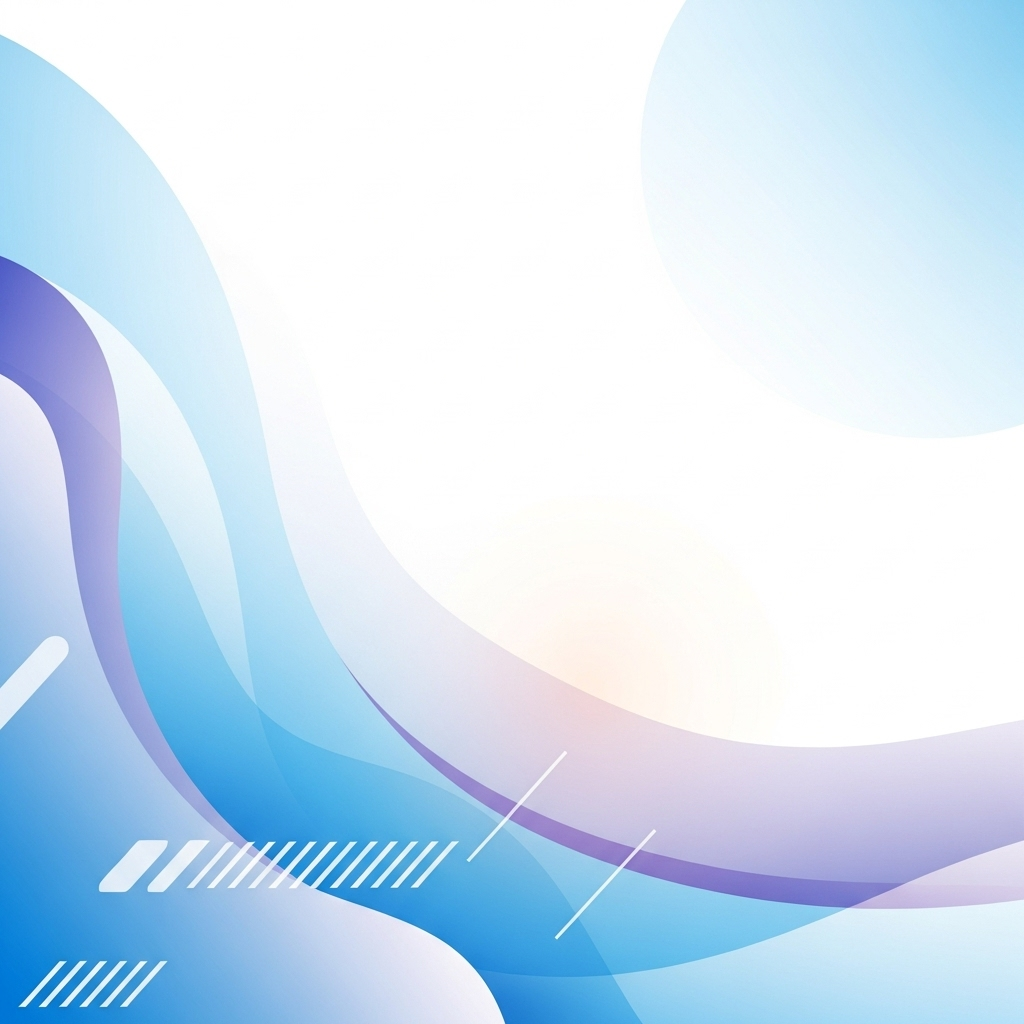
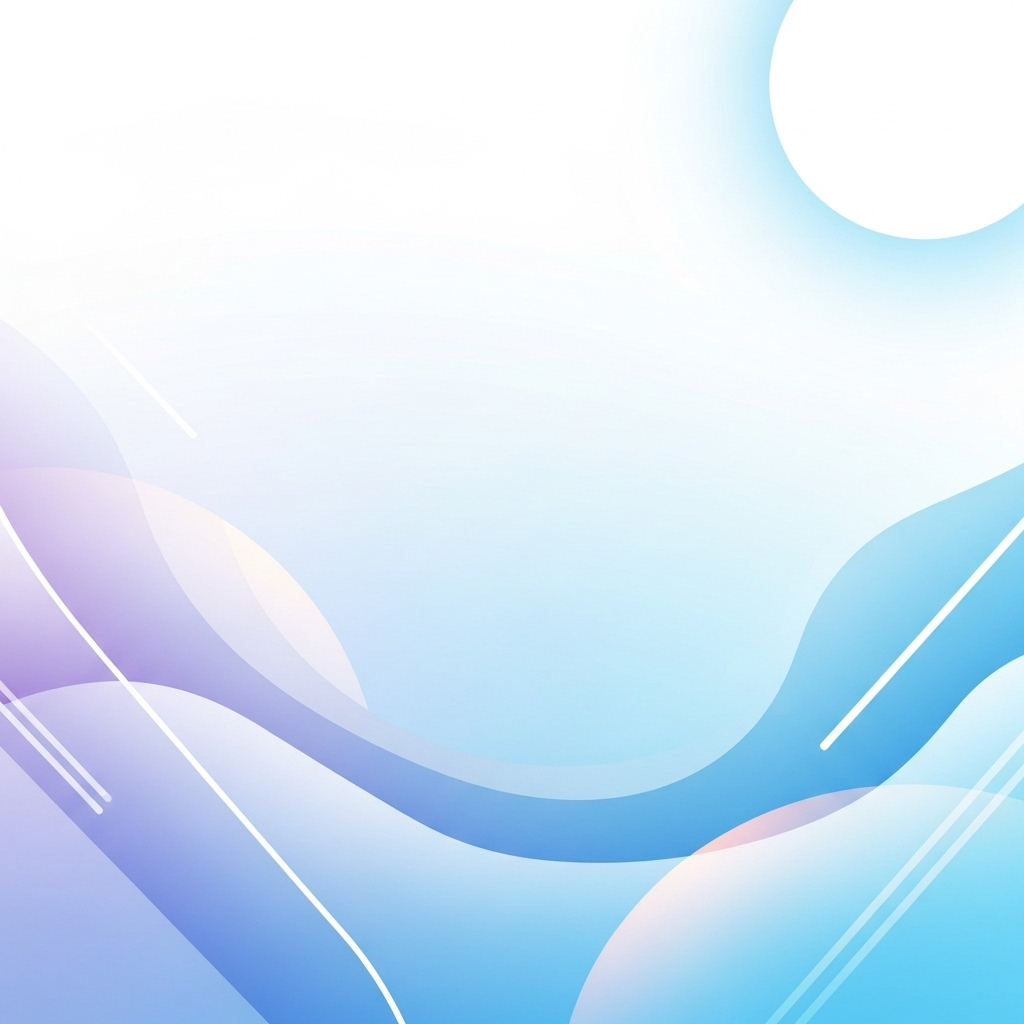
Fixed logout issue associated with settings page

diff --git a/backend/src/controllers/auth.controller.js b/backend/src/controllers/auth.controller.js
@@ -179,11 +179,48 @@ export const googleCallback = async (req, res) => {
 //  Logout
 // ===========================
 export const logout = (req, res) => {
-    // Clear both access and refresh cookies
-    res.clearCookie("token", { path: "/" });
-    res.clearCookie("refreshToken", { path: "/" });
-    res.clearCookie("csrfToken", { path: "/" });
-    res.json({ message: "Logged out" });
+    // Log incoming cookies for debug purposes (helps diagnose why clearCookie
+    // sometimes doesn't remove cookies when path/sameSite/domain mismatches occur).
+    try {
+        console.debug('logout: incoming cookies ->', Object.keys(req.cookies || {}));
+    } catch (e) {
+        console.warn('logout: failed to read req.cookies', e);
+    }
+
+    // Clear both access and refresh cookies using the same options that were
+    // applied when the cookies were originally set (httpOnly, secure, sameSite).
+    const isProd = process.env.NODE_ENV === "production";
+
+    // Use makeCookieOpts to produce matching options; set maxAge to 0 when clearing
+    res.clearCookie("token", makeCookieOpts(isProd, 0));
+    res.clearCookie("refreshToken", makeCookieOpts(isProd, 0));
+
+    // csrfToken was set as a non-httpOnly cookie earlier — clear with matching options
+    res.clearCookie("csrfToken", {
+        httpOnly: false,
+        secure: isProd,
+        sameSite: isProd ? "none" : "lax",
+        maxAge: 0,
+        path: "/",
+    });
+
+    // As an extra fallback, also explicitly set expired cookies (some browsers
+    // respond better to an explicit past expiration). Use the same options.
+    try {
+        res.cookie("token", "", { ...makeCookieOpts(isProd, 0), expires: new Date(0) });
+        res.cookie("refreshToken", "", { ...makeCookieOpts(isProd, 0), expires: new Date(0) });
+        res.cookie("csrfToken", "", { httpOnly: false, secure: isProd, sameSite: isProd ? "none" : "lax", expires: new Date(0), path: "/" });
+    } catch (e) {
+        // best-effort — don't crash logout if this fails
+        console.debug('logout: explicit expire cookies failed', e?.message || e);
+    }
+
+    // Return a debug hint in non-production to help client-side diagnostics
+    if (process.env.NODE_ENV !== 'production') {
+        return res.json({ message: "Logged out", cookiesReceived: Object.keys(req.cookies || {}) });
+    }
+
+    return res.json({ message: "Logged out" });
 };
 
 // ===========================
@@ -418,20 +455,20 @@ export const login = async (req, res) => {
         const refreshToken = generateRefreshToken(user);
         const isProd = process.env.NODE_ENV === "production";
 
-        // Set access and refresh cookies
-        res.cookie("token", token, makeCookieOpts(isProd, parseInt(process.env.JWT_EXPIRES_MS || String(15 * 60 * 1000))));
-        res.cookie("refreshToken", refreshToken, makeCookieOpts(isProd, parseInt(process.env.JWT_REFRESH_EXPIRES_MS || String(7 * 24 * 60 * 60 * 1000))));
+    // Set access and refresh cookies
+    const tokenOpts = makeCookieOpts(isProd, parseInt(process.env.JWT_EXPIRES_MS || String(15 * 60 * 1000)));
+    const refreshOpts = makeCookieOpts(isProd, parseInt(process.env.JWT_REFRESH_EXPIRES_MS || String(7 * 24 * 60 * 60 * 1000)));
+    console.debug('auth: setting token cookie opts ->', tokenOpts);
+    console.debug('auth: setting refreshToken cookie opts ->', refreshOpts);
+    res.cookie("token", token, tokenOpts);
+    res.cookie("refreshToken", refreshToken, refreshOpts);
 
 
         // Issue a non-httpOnly CSRF token for double-submit protection
         const csrfToken = crypto.randomBytes(24).toString("hex");
-        res.cookie("csrfToken", csrfToken, {
-            httpOnly: false,
-            secure: isProd,
-            sameSite: isProd ? "none" : "lax",
-            maxAge: 7 * 24 * 60 * 60 * 1000,
-            path: "/",
-        });
+        const csrfOpts = { httpOnly: false, secure: isProd, sameSite: isProd ? "none" : "lax", maxAge: 7 * 24 * 60 * 60 * 1000, path: "/" };
+        console.debug('auth: setting csrfToken cookie opts ->', csrfOpts);
+        res.cookie("csrfToken", csrfToken, csrfOpts);
 
         res.json({ id: user._id, name: user.name, email: user.email, csrfToken });
     } catch (err) {
@@ -458,17 +495,15 @@ export const refresh = async (req, res) => {
 
         const newToken = generateToken(user);
         const isProd = process.env.NODE_ENV === "production";
-        res.cookie("token", newToken, makeCookieOpts(isProd, parseInt(process.env.JWT_EXPIRES_MS || String(15 * 60 * 1000))));
+        const tokenOpts = makeCookieOpts(isProd, parseInt(process.env.JWT_EXPIRES_MS || String(15 * 60 * 1000)));
+        console.debug('auth.refresh: setting token cookie opts ->', tokenOpts);
+        res.cookie("token", newToken, tokenOpts);
 
         // rotate csrf token as well
         const csrfToken = crypto.randomBytes(24).toString("hex");
-        res.cookie("csrfToken", csrfToken, {
-            httpOnly: false,
-            secure: isProd,
-            sameSite: isProd ? "none" : "lax",
-            maxAge: 7 * 24 * 60 * 60 * 1000,
-            path: "/",
-        });
+        const csrfOpts = { httpOnly: false, secure: isProd, sameSite: isProd ? "none" : "lax", maxAge: 7 * 24 * 60 * 60 * 1000, path: "/" };
+        console.debug('auth.refresh: setting csrfToken cookie opts ->', csrfOpts);
+        res.cookie("csrfToken", csrfToken, csrfOpts);
 
         // Note: refresh-token session tracking removed — keep refresh cookie as-is
 

diff --git a/frontend/src/contexts/AuthContext.jsx b/frontend/src/contexts/AuthContext.jsx
@@ -101,13 +101,60 @@ export const AuthProvider = ({ children }) => {
   }, [fetchMe]);
 
   const logout = async () => {
+    // Prevent concurrent auth fetches from re-authenticating while logout is in-flight
     try {
-      await axios.post(`${apiBase}/api/auth/logout`, {}, { withCredentials: true });
+      localStorage.setItem("suppressAuthFetch", "1");
+    } catch {
+      /* ignore storage errors */
+    }
+
+    // Read the current CSRF token from cookie (double-submit cookie is non-httpOnly)
+    const readCookie = (name) => {
+      try {
+        const m = document.cookie.match(new RegExp('(^| )' + name + '=([^;]+)'));
+        return m ? decodeURIComponent(m[2]) : null;
+      } catch {
+        return null;
+      }
+    };
+
+    const csrfFromCookie = readCookie('csrfToken') || csrfToken || null;
+
+    try {
+      await axios.post(
+        `${apiBase}/api/auth/logout`,
+        {},
+        {
+          withCredentials: true,
+          headers: csrfFromCookie ? { 'X-CSRF-Token': csrfFromCookie } : {}
+        }
+      );
     } catch (err) {
       console.debug("AuthContext.logout: logout request failed", err?.response?.status || err?.message);
     }
+
+    // Immediately clear client state. Then trigger a quick re-check from the server
+    // so UI can reflect the true server-side auth state if cookies failed to clear.
     hardResetAuth();
+    try {
+      // best-effort re-check — fetchMe will reset state again if server still
+      // considers the session valid
+      await fetchMe();
+    } catch {
+      // ignore errors here
+    }
+
+  try { localStorage.removeItem('suppressAuthFetch'); } catch { /* ignore */ }
   };
+
+  // Log user changes in development for debugging logout issues
+  useEffect(() => {
+    try {
+      if (import.meta.env.DEV) console.debug("AuthContext: user changed ->", user);
+    } catch {
+      /* ignore */
+    }
+  }, [user]);
 
   return (
     <AuthContext.Provider

diff --git a/backend/src/server.js b/backend/src/server.js
@@ -28,6 +28,21 @@ connectDB();
 app.use(express.json());
 app.use(cookieParser());
 
+// Development-only request debugger: logs incoming API requests and cookie keys.
+if (process.env.NODE_ENV !== 'production') {
+  app.use((req, res, next) => {
+    try {
+      if (req.path && req.path.startsWith('/api')) {
+        const ck = Object.keys(req.cookies || {});
+        console.debug(`dev-req: ${req.method} ${req.path} -> cookies:`, ck);
+      }
+    } catch (e) {
+      /* ignore */
+    }
+    next();
+  });
+}
+
 // -------------------- CORS --------------------
 // Allow frontend origin(s) and credentials. Support comma-separated FRONTEND_URLS or single FRONTEND_URL.
 const defaultDevOrigin = "http://localhost:5173";

diff --git a/frontend/src/pages/SignupPage.jsx b/frontend/src/pages/SignupPage.jsx
@@ -16,7 +16,7 @@ export default function SignupPage() {
       <div
         className="hidden lg:flex relative flex-col items-center justify-center w-1/2 bg-gray-50 dark:bg-slate-800 p-12"
         style={{
-          backgroundImage: "url('/images/register-bg-3.png')",
+          backgroundImage: "url('/images/register-bg.png')",
           backgroundSize: 'cover',
           backgroundPosition: 'center',
         }}

diff --git a/frontend/src/components/MainNavBar/MainNavBar.jsx b/frontend/src/components/MainNavBar/MainNavBar.jsx
@@ -7,6 +7,12 @@ const MainNavBar = () => {
   const [isMobileMenuOpen, setIsMobileMenuOpen] = useState(false);
 
   const { user } = useAuth();
+  // Debug: show current user in console to help diagnose stale UI after logout
+  try {
+    if (import.meta.env.DEV) console.debug('MainNavBar render user ->', user);
+  } catch {
+    /* ignore */
+  }
 
   const closeMenu = () => setIsMobileMenuOpen(false);
 

diff --git a/frontend/src/pages/LoginPage.jsx b/frontend/src/pages/LoginPage.jsx
@@ -15,7 +15,7 @@ const LoginPage = () => {
       <div
         className="hidden lg:flex relative flex-col items-center justify-center w-1/2 bg-gray-50 dark:bg-slate-800 p-12"
         style={{
-          backgroundImage: "url('/images/login-bg-1.png')",
+          backgroundImage: "url('/images/login-bg.png')",
           backgroundSize: "cover",
           backgroundPosition: "center",
         }}
